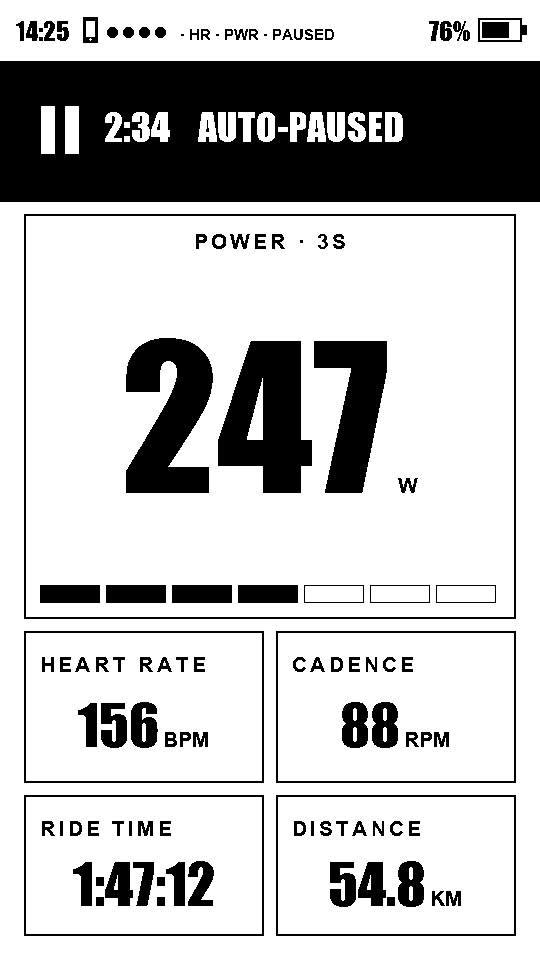
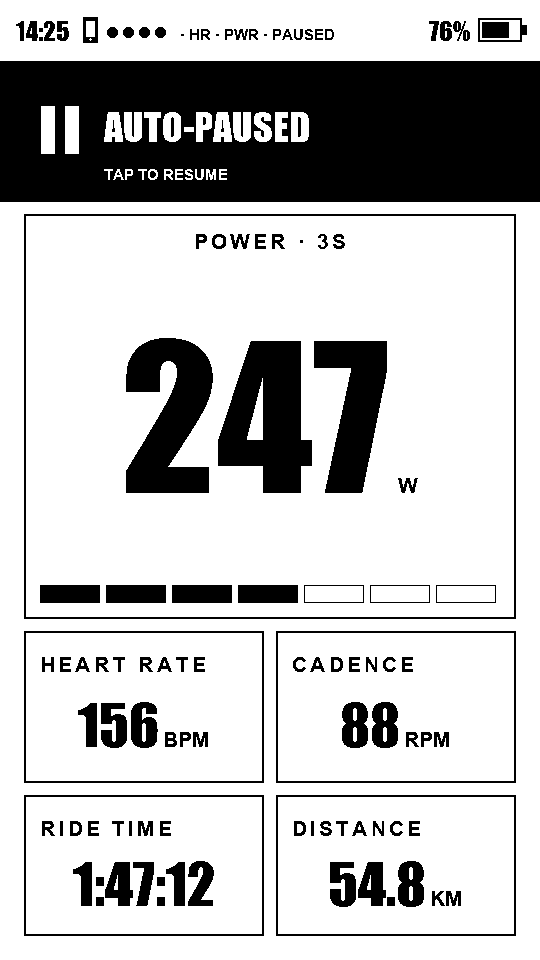
Sensor link sleep hold (#50)
* Hold light sleep while any sensor link is up

Learned on the first real bike ride with sensors after the hunt fix
(bikegps-diag 11, 2026-08-21): an established sensor link dies under CPU
light sleep exactly like the phone's does. The ride ran 1h45m rock-solid
while the connected phone held sleep off; the phone left at a stop, sleep
engaged, the power meter dropped by supervision timeout 40 s later, and
from then on every reconnect lived only the few seconds the hunt's own
no-sleep hold bought it — a connect/reason-520 flap every ~30 s for the
whole ride home, HR and power alternating.

The CPU now sleeps only when the BLE radio is completely quiet: no phone,
no sensor links, no hunt (ble_sensors::anyConnected(), battery-line token
"sens"). Parked/idle — the state that actually drains the battery for
hours — has none of those, so the ~110 mA idle win is untouched. Rides
with sensors or phone attached run awake (~-180 mA) until the controller
gets a low-power clock it can keep time on through sleep: the 32.768 kHz
crystal lib rebuild is now the one remaining lever for ride-time drain.
BT modem sleep is left as it was — sensors held links fine through it on
2026-08-16/17 with the CPU awake; it is CPU sleep that kills them.

Claude-Session: https://claude.ai/code/session_01GfSJUqm5g8xefBmMNiJ3gK

* Let a long auto-pause sleep; bring full power back on resume

Refinement from the road: holding the sensor links awake through a whole
[…]

Changed region(s): [[0.1778, 0.0938, 0.7704, 0.1875]]

diff --git a/src/ride_recorder.cpp b/src/ride_recorder.cpp
@@ -51,6 +51,15 @@ uint32_t stoppedS = 0;
 uint32_t pausedS = 0;
 uint32_t pauseEntryS = 0;   // pausedS when this pause began, for the resume log
 uint32_t lastMoveMs = 0;    // last tick with POSITIVE movement evidence
+uint32_t manualResumeMs = 0;   // when the rider tapped resume; 0 = never
+
+// Where the phone last said we were when the bike stopped — the anchor for
+// motionEvidence's fallback witness. Seated by the pause state machine when
+// movement ends, dropped the moment anything says we're moving, so each stop
+// measures displacement from its own stopping point rather than a stale one.
+double phoneAnchorLat = 0, phoneAnchorLon = 0;
+float phoneAnchorAccM = 0;
+bool phoneAnchorValid = false;
 
 // Stats for the summary screen
 uint32_t movingS = 0;
@@ -190,6 +199,8 @@ void resetStats() {
     pausedS = 0;
     pauseEntryS = 0;
     lastMoveMs = 0;
+    manualResumeMs = 0;
+    phoneAnchorValid = false;
     havePrevFix = false;
     lastFixMs = 0;
     lastPhoneFixMs = 0;
@@ -288,6 +299,23 @@ Motion motionEvidence(const RideState& s, bool resuming) {
     if (s.gpsFix) {
         witnesses++;
         if (s.speedKmh > (resuming ? 5.0f : 3.0f)) moving = true;
+    } else if (s.phoneFixValid && now - s.phoneFixMs < 10000 &&
+               s.phoneAccM > 0 && s.phoneAccM <= 50.0f) {
+        // No fix of our own: the PHONE's location is the witness of last
+        // resort — same accuracy gate as the record stream's fallback. It has
+        // no speed, so movement is displacement from the anchor seated where
+        // the bike stopped: farther than the combined accuracy circles (floor
+        // 30 m) is a rider leaving, not a fix wandering. This is what lets a
+        // ride parked INDOORS — device GPS dead, phone still located — resume
+        // as the rider pulls away instead of waiting out a fresh device fix.
+        witnesses++;
+        if (phoneAnchorValid) {
+            const float leash = fmaxf(30.0f, phoneAnchorAccM + s.phoneAccM);
+            if (haversineM(phoneAnchorLat, phoneAnchorLon,
+                           s.phoneLat, s.phoneLon) > leash) moving = true;
+        }
+        // Anchor not seated yet: this fix still counts as a witness (it can
+        // testify "stopped"), and the state machine seats the anchor from it.
     }
     if (moving) return Motion::MOVING;
     return witnesses ? Motion::STOPPED : Motion::BLIND;
@@ -511,7 +539,6 @@ void startRide() {
     g_state.with([](RideState& st) {
         st.recording = true;
         st.ridePaused = false;
-        st.pausedForS = 0;
         st.distanceM = 0;
         st.elapsedS = 0;
         st.movingS = 0;
@@ -550,7 +577,6 @@ void stopRide(bool save) {
     g_state.with([](RideState& st) {
         st.recording = false;
         st.ridePaused = false;
-        st.pausedForS = 0;
         st.distanceM = 0;
         st.elapsedS = 0;
         st.movingS = 0;
@@ -560,6 +586,28 @@ void stopRide(bool save) {
 }
 
 bool isRecording() { return rideActive; }
+
+bool longAutoPaused() {
+    // Cross-task reads of the recorder's own counters; a tick of staleness is
+    // fine for a power-policy answer. 2 min: longer than any stoplight, short
+    // enough that a real stop starts saving within a coffee's first sips.
+    return rideActive && autoPaused && (pausedS - pauseEntryS) > 120;
+}
+
+void manualResume() {
+    // Called from the UI task (banner tap). The recorder task reads these
+    // flags at 1 Hz; plain aligned writes, same cross-task discipline as the
+    // rest of this file. The state update here (not deferred to the next
+    // recorder tick) is what makes the banner disappear on the tap's own
+    // repaint instead of up to a second later.
+    if (!rideActive || !autoPaused) return;
+    autoPaused = false;
+    stoppedS = 0;
+    manualResumeMs = millis() | 1;
+    diag::log("rec: manual resume (tap, paused %lus)",
+              (unsigned long)(pausedS - pauseEntryS));
+    g_state.with([](RideState& st) { st.ridePaused = false; });
+}
 
 const char* currentRideFile() {
     if (!fit.isOpen()) return "";
@@ -713,6 +761,20 @@ void task(void*) {
                 m == Motion::MOVING ||
                 (m == Motion::BLIND && !autoPaused && lastMoveMs &&
                  millis() - lastMoveMs < BLIND_GRACE_MS);
+
+            // Phone-anchor upkeep for motionEvidence's fallback witness: while
+            // stopped, the anchor marks the stopping point; any movement drops
+            // it so the NEXT stop seats a fresh one where it actually happens.
+            if (moving) {
+                phoneAnchorValid = false;
+            } else if (!phoneAnchorValid && s.phoneFixValid &&
+                       millis() - s.phoneFixMs < 10000 &&
+                       s.phoneAccM > 0 && s.phoneAccM <= 50.0f) {
+                phoneAnchorLat = s.phoneLat;
+                phoneAnchorLon = s.phoneLon;
+                phoneAnchorAccM = s.phoneAccM;
+                phoneAnchorValid = true;
+            }
             if (autoPaused) {
                 if (moving) {
                     autoPaused = false;
@@ -721,7 +783,11 @@ void task(void*) {
                               (unsigned long)(pausedS - pauseEntryS));
                 }
             } else if (!moving) {
-                if ((int)++stoppedS >= pauseAfterS) {
+                // A tapped resume gets 30 s before stillness counts again —
+                // the rider resumed to leave, and clipping in takes a moment.
+                if (manualResumeMs && millis() - manualResumeMs < 30000) {
+                    stoppedS = 0;
+                } else if ((int)++stoppedS >= pauseAfterS) {
                     autoPaused = true;
                     pauseEntryS = pausedS;
                     diag::log("rec: auto-pause (%d s stopped) at %.2f km",
@@ -741,10 +807,7 @@ void task(void*) {
 
         if (autoPaused) {
             pausedS++;
-            g_state.with([&](RideState& st) {
-                st.ridePaused = true;
-                st.pausedForS = pausedS - pauseEntryS;   // drives the banner's counter
-            });
+            g_state.with([](RideState& st) { st.ridePaused = true; });
             continue;
         }
 
@@ -859,7 +922,6 @@ void task(void*) {
 
         g_state.with([&](RideState& st) {
             st.ridePaused = false;
-            st.pausedForS = 0;
             st.distanceM = distanceM;
             st.elapsedS = timerS;
             st.movingS = movingS;

diff --git a/src/power_mgmt.cpp b/src/power_mgmt.cpp
@@ -13,6 +13,7 @@
 #include "ble_sensors.h"
 #include "ble_server.h"
 #include "diag.h"
+#include "ride_recorder.h"
 
 namespace power_mgmt {
 
@@ -33,6 +34,8 @@ static volatile bool s_phone = false, s_hunt = false;
 // active). Not a holder — shown on the battery line as "prlx" so a sample
 // can't be misread as "app wasn't connected".
 static volatile bool s_phoneRelaxed = false;
+// Any BLE sensor link up (holds sleep off — see tick()).
+static volatile bool s_sens = false;
 
 bool begin() {
     // Light sleep ONLY — no dynamic frequency scaling. min == max == 240 MHz
@@ -184,10 +187,29 @@ void tick() {
     // sensor is missing and the device is actually looking for it. Once
     // everything is connected the hunt stops and the CPU sleeps again.
     bool hunting = ble_sensors::radioBusy();
+    // 2026-08-21, learned on the road: an ESTABLISHED sensor link dies under
+    // light sleep exactly like the phone's does. A ride ran 1h45m rock-solid
+    // while the connected phone held sleep off — then the phone left, sleep
+    // engaged, and the power meter dropped 40 s later, after which every
+    // reconnect lived only the few seconds the hunt's own hold bought it and
+    // died at supervision timeout, all the way home (connect/520 every ~30 s).
+    // So the CPU only sleeps when the BLE radio is COMPLETELY quiet: no phone,
+    // no sensor links, no hunt. Parked/idle — the state that actually drains
+    // the battery for hours — has none of those, and keeps the full win.
+    //
+    // Exception, by design: a ride parked in a LONG auto-pause (2 min — see
+    // ride_recorder::longAutoPaused) releases the sensor hold. The meter is
+    // sleeping itself at a stop like that and the links are going away either
+    // way; what matters is that the hold and the hunt come back the moment
+    // the ride resumes, which they do — this flag flips false on the resume
+    // tick, before the sensors have woken enough to reconnect.
+    bool sensors = ble_sensors::anyConnected() &&
+                   !ride_recorder::longAutoPaused();
     bool grace = millis() < USB_GRACE_MS;
     bool serial = (bool)Serial;
-    bool usb = grace || serial || phone || hunting;
+    bool usb = grace || serial || phone || hunting || sensors;
     s_grace = grace; s_serial = serial; s_phone = phone; s_hunt = hunting;
+    s_sens = sensors;
 
     // A busy (bus) lock held for half a minute straight is not a transaction,
     // it is a leak — or a host copying files over MSC, which the log line lets
@@ -261,6 +283,7 @@ void stateStr(char* out, size_t n) {
     if (s_serial) add("serial");
     if (s_phone) add("phone");
     if (s_hunt) add("hunt");
+    if (s_sens) add("sens");
     // Info, not a holder: phone attached on the relaxed link, CPU sleeping.
     if (s_phoneRelaxed) add("prlx");
     const int busy = s_busyCount.load();

diff --git a/src/ui_render.cpp b/src/ui_render.cpp
@@ -1897,12 +1897,14 @@ void ui_render_nav_banner(const char* instruction, float distanceM,
     }
 }
 
-void ui_render_pause_banner(uint32_t pausedForS, uint8_t* fb) {
+void ui_render_pause_banner(uint8_t* fb) {
     // Same inverted band, in the same place, as the turn banner — the rider
     // already knows that band means "the device is telling you something".
-    // Left cluster is a pause glyph where the arrow would be, then how long
-    // the ride has been paused where the turn distance would be; the counter
-    // ticking up each second is what says "paused and watching", not hung.
+    // Deliberately STATIC: an earlier version showed the paused duration
+    // counting up, which forced a panel refresh every second of a stop. The
+    // frame differ (shadowFb in ui_dashboard) drops identical frames, so a
+    // banner with nothing ticking lets a paused screen coast at ~one refresh
+    // a minute (the status-bar clock) instead of sixty.
     const int W = epd_rotated_display_width();
     const int top = ui::STATUS_H;
     epd_fill_rect({0, top, W, 138}, 0x00, fb);
@@ -1912,22 +1914,11 @@ void ui_render_pause_banner(uint32_t pausedForS, uint8_t* fb) {
     epd_fill_rect({ax - 19, ay - 24, 14, 48}, 0xFF, fb);
     epd_fill_rect({ax + 5, ay - 24, 14, 48}, 0xFF, fb);
 
-    char d[16];
-    if (pausedForS >= 3600) {
-        snprintf(d, sizeof(d), "%lu:%02lu:%02lu", (unsigned long)(pausedForS / 3600),
-                 (unsigned long)((pausedForS / 60) % 60),
-                 (unsigned long)(pausedForS % 60));
-    } else {
-        snprintf(d, sizeof(d), "%lu:%02lu", (unsigned long)(pausedForS / 60),
-                 (unsigned long)(pausedForS % 60));
-    }
-    const int distX = 104;
-    ui::text(&Impact_T, distX, top + 78, d, fb, EPD_DRAW_ALIGN_LEFT, 0xFF);
-
-    const int textX = distX + ui::textWidth(&Impact_T, d) + 28;
-    const int textW = W - textX - ui::MARGIN;
-    const char* label = "AUTO-PAUSED";
-    const EpdFont* f = ui::textWidth(&Impact_T, label) <= textW ? &Impact_T
-                                                                : &Arial_B;
-    ui::text(f, textX, top + 78, label, fb, EPD_DRAW_ALIGN_LEFT, 0xFF);
+    const int textX = 104;
+    ui::text(&Impact_T, textX, top + 78, "AUTO-PAUSED", fb,
+             EPD_DRAW_ALIGN_LEFT, 0xFF);
+    // The band is tappable (resumes the ride and restarts the sensor hunt) —
+    // say so, or the only rider who finds out is the one who taps by accident.
+    ui::text(&Arial_L, textX, top + 116, "TAP TO RESUME", fb,
+             EPD_DRAW_ALIGN_LEFT, 0xFF);
 }

diff --git a/src/ble_sensors.cpp b/src/ble_sensors.cpp
@@ -486,8 +486,17 @@ void task(void*) {
         // sensor contact does not want a scan; a rider whose strap dropped out
         // at the coffee stop does, and still gets one.
         const bool sensorsRecent = everLinked && millis() - lastLinkMs < 15 * 60 * 1000;
+        // A ride parked in a long auto-pause does NOT hunt: the sensors are
+        // asleep or heading there (an Assioma naps within minutes of the
+        // cranks stopping), and a hunt would hold the CPU awake for a stop
+        // that could last an hour. The moment the ride resumes, this term
+        // flips back and the hunt restarts with its full first-minute
+        // continuous look — reconnection happens as the rider pulls away,
+        // at full radio quality.
+        const bool ridingNow = ride_recorder::isRecording() &&
+                               !ride_recorder::longAutoPaused();
         bool wantScan = !allConnected &&
-                        (scanAlways || ride_recorder::isRecording() ||
+                        (scanAlways || ridingNow ||
                          routes::navActive() || millis() < 90000 ||
                          (millis() - lastActivityMs < 30000 && sensorsRecent));
 
@@ -569,6 +578,12 @@ void task(void*) {
 void setScanAlways(bool on) { scanAlways = on; }
 void noteActivity() { lastActivityMs = millis(); }
 bool radioBusy() { return huntingRadio; }
+
+bool anyConnected() {
+    for (int k = 0; k < KIND_COUNT; ++k)
+        if (sensors[k].connected) return true;
+    return false;
+}
 
 HrPacket lastHrPacket() { return lastHr; }
 

diff --git a/src/ui_dashboard.cpp b/src/ui_dashboard.cpp
@@ -495,6 +495,19 @@ void handleTap(int x, int y) {
         return;
     }
 
+    // Tapping the AUTO-PAUSED banner (same band, shown when nav isn't) resumes
+    // the ride by hand. Clearing the pause is also what restarts the sensor
+    // hunt — its gate is "recording and not parked" — so a rider tapping at
+    // the end of a coffee stop gets their meter and strap reconnecting while
+    // they clip in, instead of waiting for GPS to notice they're rolling.
+    if (!routes::navActive() && inRect(kNavBanner, x, y) &&
+        (screen == SCREEN_DASH || screen == SCREEN_MAP) &&
+        g_state.snapshot().ridePaused) {
+        ride_recorder::manualResume();
+        noteActivity();
+        return;
+    }
+
     switch (screen) {
         case SCREEN_DASH:
         case SCREEN_MAP:
@@ -864,7 +877,7 @@ void drawNavBanner(uint8_t* fb) {
 // the status bar's PAUSED chip still covers the pause.
 void drawPauseBanner(const RideState& s, uint8_t* fb) {
     if (routes::navActive() || !s.ridePaused) return;
-    ui_render_pause_banner(s.pausedForS, fb);
+    ui_render_pause_banner(fb);
 }
 
 void enterSensors() {

diff --git a/src/ride_recorder.h b/src/ride_recorder.h
@@ -16,6 +16,20 @@ void startRide();
 void stopRide(bool save);
 bool isRecording();
 
+// True once an auto-pause has lasted long enough (2 min) that the rider is
+// clearly parked, not waiting out a light. Gates the power policy for the
+// stop: ble_sensors stops hunting and power_mgmt drops the sensor-link hold
+// so the CPU can sleep — the power meter sleeps itself at a coffee stop and
+// the links are going away regardless. The instant movement resumes the ride
+// unpauses, this goes false, and the hunt + no-sleep hold return in the same
+// tick, so reconnection runs at full radio quality.
+bool longAutoPaused();
+
+// Rider tapped the AUTO-PAUSED banner: resume the timer now. Movement gets a
+// 30 s head start before stillness counts toward re-pausing — the tap means
+// "I'm leaving", and clipping in takes a moment. No-op unless auto-paused.
+void manualResume();
+
 // Basename (no directory) of the FIT file currently being recorded, or ""
 // when idle. Lets the history screen skip the still-open, unfinalized file.
 const char* currentRideFile();

diff --git a/src/ui_render.h b/src/ui_render.h
@@ -308,5 +308,6 @@ void ui_render_nav_banner(const char* instruction, float distanceM,
                           bool useMiles, uint8_t* fb);
 
 // Auto-pause banner, same band as the turn banner (the turn banner wins when
-// both apply): pause glyph, how long the ride has been paused, "AUTO-PAUSED".
-void ui_render_pause_banner(uint32_t pausedForS, uint8_t* fb);
+// both apply): pause glyph, "AUTO-PAUSED", tap-to-resume hint. Static by
+// design so a paused screen stops costing panel refreshes.
+void ui_render_pause_banner(uint8_t* fb);

diff --git a/tools/preview/preview_main.cpp b/tools/preview/preview_main.cpp
@@ -282,11 +282,10 @@ int main(int argc, char** argv) {
     {
         RideState sp = s;
         sp.ridePaused = true;
-        sp.pausedForS = 154;
         sp.speedKmh = 0.0f;
         clearWhite(fb.data());
         ui_render_dashboard(sp, true, dashDefaultLayout(), fb.data());
-        ui_render_pause_banner(sp.pausedForS, fb.data());
+        ui_render_pause_banner(fb.data());
         emit("dashboard_paused.png");
     }
 

diff --git a/src/ride_state.h b/src/ride_state.h
@@ -69,7 +69,6 @@ struct RideState {
     // Ride accumulation (owned by the recorder)
     bool     recording = false;
     bool     ridePaused = false;   // auto-pause: timer frozen until movement
-    uint32_t pausedForS = 0;       // how long the CURRENT pause has lasted
     double   distanceM = 0.0;
     uint32_t elapsedS = 0;
     uint32_t movingS = 0;

diff --git a/src/ble_sensors.h b/src/ble_sensors.h
@@ -76,4 +76,10 @@ void forgetAll();
 // power_mgmt.cpp).
 bool radioBusy();
 
+// True while any sensor LINK is up. power_mgmt holds light sleep off for the
+// duration — an established sensor connection does not survive the CPU
+// sleeping any better than the phone's does (see the 2026-08-21 note in
+// power_mgmt.cpp).
+bool anyConnected();
+
 }

diff --git a/investigations/battery-life.md b/investigations/battery-life.md
@@ -359,6 +359,19 @@ Two steps, shipped same day:
    interval fast, which re-arms the hold within a tick. Battery lines show
    `prlx` (info, not a holder) while connected-and-sleeping.
 
+   **Addendum 2026-08-21 — sensor links die under sleep too.** First real
+   bike ride with sensors after the hunt fix: 1h45m rock-solid while the
+   connected phone held sleep off, then the phone left at a stop, sleep
+   engaged, the Assioma dropped 40 s later, and every reconnect died at
+   supervision timeout ~4 s after the hunt's own hold released — a
+   connect/520 flap every ~30 s for the whole ride home. Fixed by holding
+   light sleep while ANY sensor link is up (`ble_sensors::anyConnected()`,
+   battery-line token `sens`): the CPU now sleeps only when the BLE radio is
+   completely quiet, which parked/idle — the state that drains for hours —
+   always is. Rides with sensors or phone run ~-180 mA until the controller
+   gets a real 32 kHz clock; that crystal rebuild is now THE remaining lever
+   for ride-time drain.
+
    **Verdict 2026-08-19 — FAILED, cleanly.** First relaxed sleep dropped the
    link in 4 s; three supervision timeouts in 41 s tripped the latch
    (`ble: light sleep with phone DISABLED`), then the rest of the ride was
